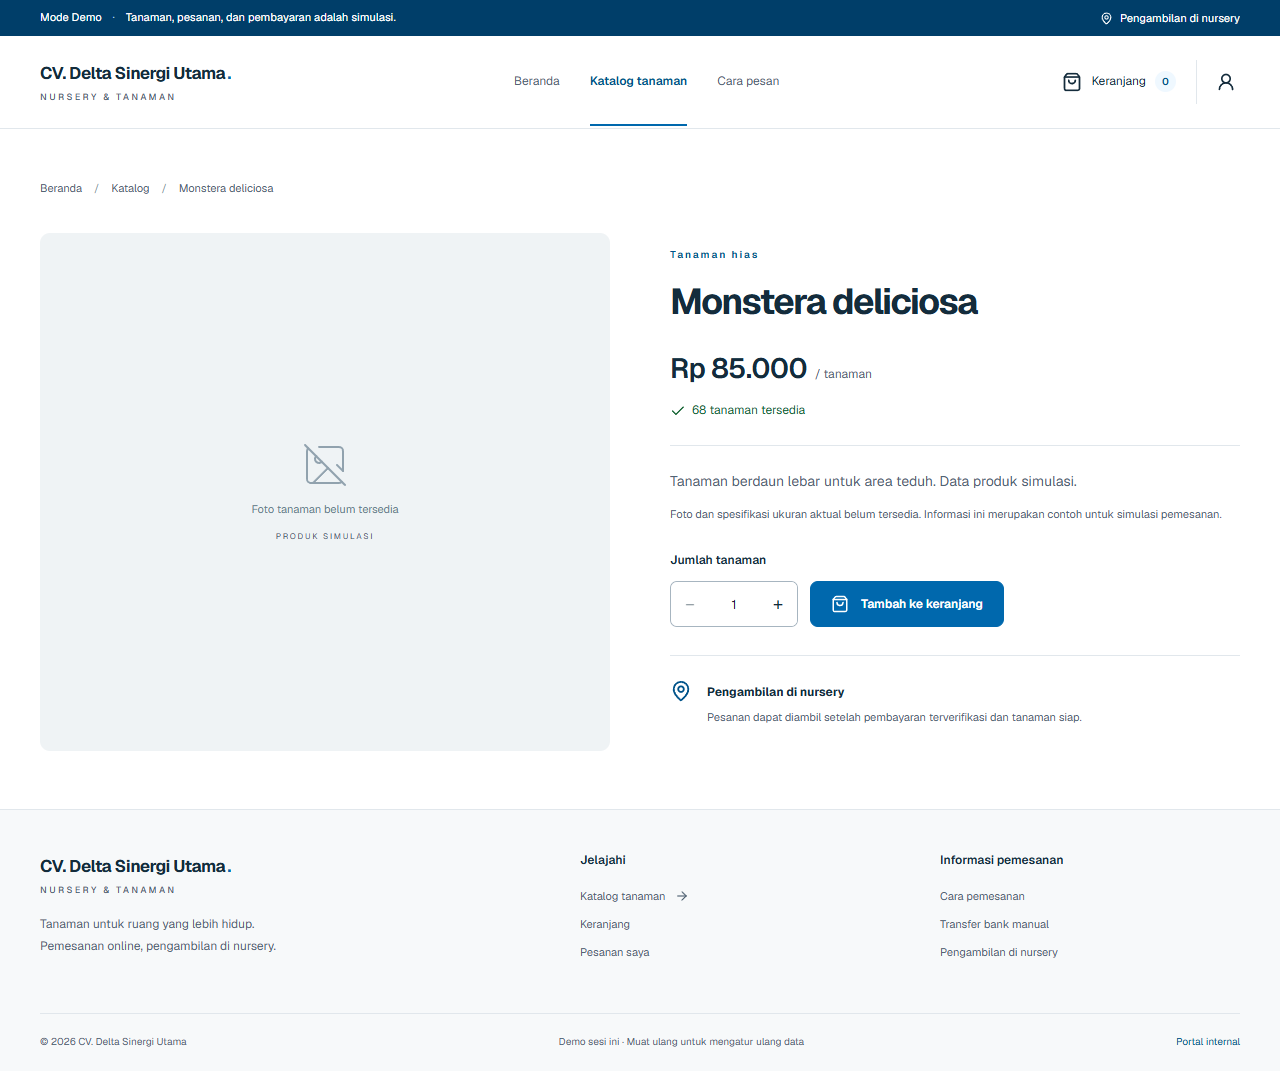
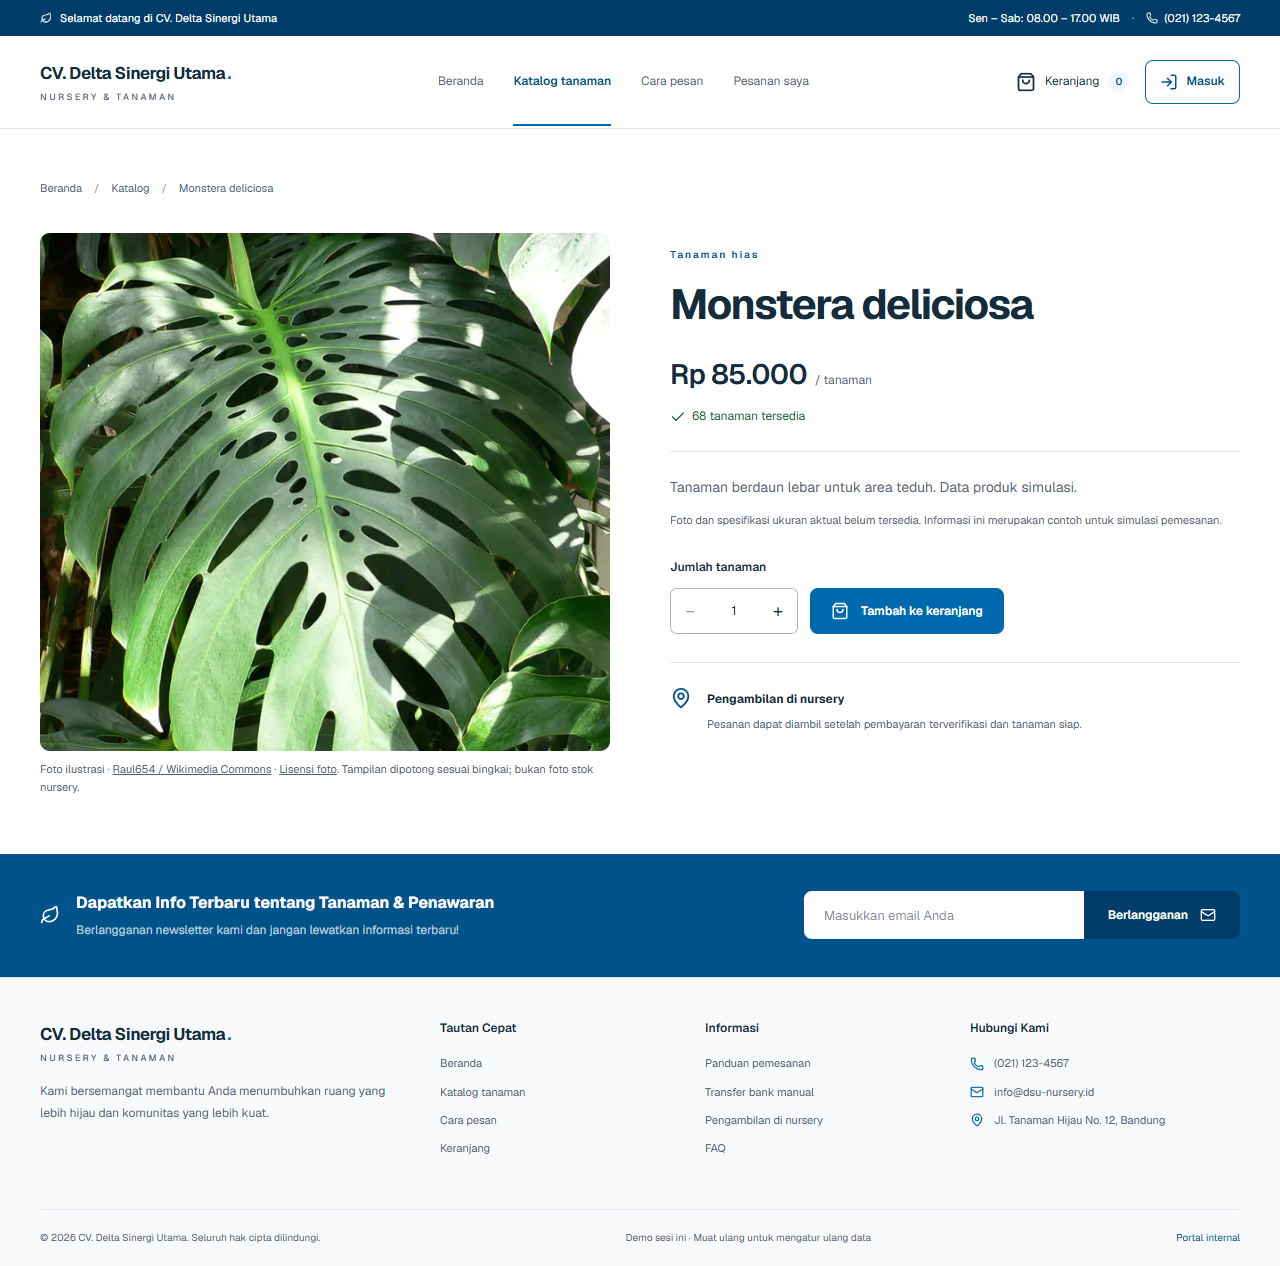
Fix storefront audit findings and add login logout regression coverage

diff --git a/apps/web/features/storefront/catalog.tsx b/apps/web/features/storefront/catalog.tsx
@@ -11,12 +11,10 @@ import {
   MapPin,
   Search,
   ShoppingBag,
-  ShieldCheck,
   SlidersHorizontal,
   Sprout,
   TreePine,
   Users,
-  WalletCards,
   Headphones,
   CalendarCheck,
   CreditCard,
@@ -43,7 +41,11 @@ export function ProductPhoto({
           src={photo.src}
           alt={`Foto ilustrasi ${name}`}
           fill
-          sizes={large ? "(max-width: 700px) 100vw, 50vw" : "(max-width: 700px) 50vw, 33vw"}
+          sizes={
+            large
+              ? "(max-width: 700px) 100vw, 50vw"
+              : "(max-width: 700px) 50vw, 33vw"
+          }
           className="shop-plant-image"
           onError={() => setFailed(true)}
         />
@@ -137,8 +139,7 @@ export function HomeContent() {
           <h1>
             Semua yang Anda Butuhkan
             <br />
-            untuk{" "}
-            <em className="shop-hero-script">Ruang Hijau</em>
+            untuk <em className="shop-hero-script">Ruang Hijau</em>
           </h1>
           <span className="shop-hero-divider" />
           <p>
@@ -215,14 +216,19 @@ export function HomeContent() {
                 <Users size={22} />
                 <div>
                   <strong>Lebih Kuat Bersama</strong>
-                  <p>Bergabung dengan komunitas yang peduli alam dan kelestarian.</p>
+                  <p>
+                    Bergabung dengan komunitas yang peduli alam dan kelestarian.
+                  </p>
                 </div>
               </div>
               <div className="shop-grow-feature">
                 <Sprout size={22} />
                 <div>
                   <strong>Berbagi & Belajar</strong>
-                  <p>Tukar tips, bibit, dan pengalaman dengan sesama pencinta tanaman.</p>
+                  <p>
+                    Tukar tips, bibit, dan pengalaman dengan sesama pencinta
+                    tanaman.
+                  </p>
                 </div>
               </div>
             </div>
@@ -244,8 +250,8 @@ export function HomeContent() {
               <div>
                 <strong>Ciptakan Hari Esok yang Lebih Hijau</strong>
                 <p>
-                  Setiap tanaman yang kita tanam hari ini menjadi langkah
-                  menuju masa depan yang lebih bersih dan hijau.
+                  Setiap tanaman yang kita tanam hari ini menjadi langkah menuju
+                  masa depan yang lebih bersih dan hijau.
                 </p>
               </div>
             </div>
@@ -466,11 +472,22 @@ export function DetailContent({ id }: { id: string }) {
           <ProductPhoto name={product.name} large />
           {productPhotos[product.name] && (
             <p className="shop-photo-credit">
-              Foto ilustrasi · {" "}
-              <a href={productPhotos[product.name].source} target="_blank" rel="noreferrer">
+              Foto ilustrasi ·{" "}
+              <a
+                href={productPhotos[product.name].source}
+                target="_blank"
+                rel="noreferrer"
+              >
                 {productPhotos[product.name].author} / Wikimedia Commons
               </a>{" "}
-              · <a href={productPhotos[product.name].license} target="_blank" rel="noreferrer">Lisensi foto</a>
+              ·{" "}
+              <a
+                href={productPhotos[product.name].license}
+                target="_blank"
+                rel="noreferrer"
+              >
+                Lisensi foto
+              </a>
               . Tampilan dipotong sesuai bingkai; bukan foto stok nursery.
             </p>
           )}

diff --git a/tests/customer.spec.ts b/tests/customer.spec.ts
@@ -6,9 +6,7 @@ test("customer journey: detail, cart, checkout validation and payment review", a
   const errors: string[] = [];
   page.on("pageerror", (error) => errors.push(error.message));
   await page.goto("/");
-  await page
-    .getByRole("link", { name: "Jelajahi tanaman", exact: true })
-    .click();
+  await page.getByRole("link", { name: /^Jelajahi tanaman$/i }).click();
   await page
     .getByRole("link", { name: "Lihat detail Monstera deliciosa" })
     .click();
@@ -45,31 +43,58 @@ test("customer journey: detail, cart, checkout validation and payment review", a
     page.getByText("Menunggu pembayaran", { exact: true }),
   ).toBeVisible();
   await page.getByRole("button", { name: "Detail pembayaran" }).click();
-  await page
-    .getByLabel("Bukti pembayaran SIM-0001")
-    .setInputFiles({
-      name: "contoh.txt",
-      mimeType: "text/plain",
-      buffer: Buffer.from("simulation"),
-    });
+  await page.getByLabel("Bukti pembayaran SIM-0001").setInputFiles({
+    name: "contoh.txt",
+    mimeType: "text/plain",
+    buffer: Buffer.from("simulation"),
+  });
   await page.getByRole("button", { name: "Kirim bukti simulasi" }).click();
   await expect(page.getByRole("main").getByRole("alert")).toContainText(
     "maksimal 5 MB",
   );
-  await page
-    .getByLabel("Bukti pembayaran SIM-0001")
-    .setInputFiles({
-      name: "contoh.pdf",
-      mimeType: "application/pdf",
-      buffer: Buffer.from("%PDF-1.4 demo"),
-    });
+  await page.getByLabel("Bukti pembayaran SIM-0001").setInputFiles({
+    name: "contoh.pdf",
+    mimeType: "application/pdf",
+    buffer: Buffer.from("%PDF-1.4 demo"),
+  });
   await page.getByRole("button", { name: "Kirim bukti simulasi" }).click();
   await expect(
     page.getByText("Menunggu verifikasi", { exact: true }),
   ).toBeVisible();
   await page.getByRole("link", { name: "Kembali ke katalog" }).click();
   await expect(page.getByText("66 tanaman tersedia")).toBeVisible();
+  await page.getByRole("link", { name: "Masuk", exact: true }).click();
+  await page.getByRole("button", { name: /budi@email.com/ }).click();
+  await page.getByRole("button", { name: "Masuk", exact: true }).click();
+  await expect(
+    page.getByRole("button", { name: "Keluar", exact: true }),
+  ).toBeVisible();
+  await page
+    .getByRole("link", { name: "Katalog tanaman", exact: true })
+    .first()
+    .click();
+  await page
+    .getByRole("button", { name: "Tambah Monstera deliciosa ke keranjang" })
+    .click();
+  await page.getByRole("button", { name: "Keluar", exact: true }).click();
+  await expect(
+    page.getByRole("link", { name: "Keranjang, 0 tanaman" }),
+  ).toBeVisible();
+  await expect(page.getByText("68 tanaman tersedia")).toBeVisible();
+  await page.getByRole("link", { name: "Pesanan saya", exact: true }).click();
+  await expect(
+    page.getByRole("heading", { name: "Belum ada pesanan" }),
+  ).toBeVisible();
   expect(errors).toEqual([]);
+});
+
+test("login focuses the first currently invalid field", async ({ page }) => {
+  await page.goto("/login");
+  await page.getByRole("button", { name: "Masuk", exact: true }).click();
+  await expect(page.locator("#login-email")).toBeFocused();
+  await page.locator("#login-email").fill("budi@email.com");
+  await page.getByRole("button", { name: "Masuk", exact: true }).click();
+  await expect(page.locator("#login-password")).toBeFocused();
 });
 test("category filtering, sorting and empty cart recovery", async ({
   page,

diff --git a/apps/web/features/storefront/storefront.tsx b/apps/web/features/storefront/storefront.tsx
@@ -1,5 +1,5 @@
 "use client";
-import { useEffect, useState } from "react";
+import { useSyncExternalStore } from "react";
 import Link from "next/link";
 import { usePathname } from "next/navigation";
 import {
@@ -10,11 +10,15 @@ import {
   Phone,
   Mail,
   ShoppingBag,
-  UserRound,
   Leaf,
 } from "lucide-react";
 import { ErrorState, LoadingState } from "@/components/ui/feedback";
-import { getSession, clearSession, type DemoSession } from "@/lib/session";
+import {
+  clearSession,
+  subscribeSession,
+  hasSession,
+  hasServerSession,
+} from "@/lib/session";
 import { useShop } from "./provider";
 import { CatalogContent, DetailContent, HomeContent } from "./catalog";
 import { CartContent, CheckoutContent, OrdersContent } from "./purchase";
@@ -25,14 +29,14 @@ export type CustomerView =
 
 /** Customer storefront layout; all displayed data and actions belong to the demo service. */
 export function Storefront({ view, id }: { view: CustomerView; id?: string }) {
-  const { state, loading, error, refresh } = useShop();
+  const { state, loading, error, refresh, reset } = useShop();
   const pathname = usePathname();
   const count = state.cart.reduce((sum, line) => sum + line.quantity, 0);
-  const [session, setSession] = useState<DemoSession | null>(null);
-
-  useEffect(() => {
-    setSession(getSession());
-  }, [pathname]);
+  const session = useSyncExternalStore(
+    subscribeSession,
+    hasSession,
+    hasServerSession,
+  );
   return (
     <div className="shop">
       <div className="shop-announcement">
@@ -97,7 +101,7 @@ export function Storefront({ view, id }: { view: CustomerView; id?: string }) {
                 className="shop-login-link"
                 onClick={() => {
                   clearSession();
-                  setSession(null);
+                  reset();
                 }}
               >
                 <LogOut size={18} />
@@ -210,7 +214,9 @@ export function Storefront({ view, id }: { view: CustomerView; id?: string }) {
           </div>
         </div>
         <div className="shop-footer-bottom">
-          <span>© 2026 CV. Delta Sinergi Utama. Seluruh hak cipta dilindungi.</span>
+          <span>
+            © 2026 CV. Delta Sinergi Utama. Seluruh hak cipta dilindungi.
+          </span>
           <span>Demo sesi ini · Muat ulang untuk mengatur ulang data</span>
           <Link href="/admin">Portal internal</Link>
         </div>

diff --git a/apps/web/features/storefront/login.tsx b/apps/web/features/storefront/login.tsx
@@ -20,7 +20,7 @@ export function LoginContent() {
 
   const demoUsers = getDemoUsers();
 
-  function validate(): boolean {
+  function validate() {
     const next: { email?: string; password?: string } = {};
     if (!email.trim()) {
       next.email = "Email wajib diisi.";
@@ -33,7 +33,7 @@ export function LoginContent() {
       next.password = "Password minimal 6 karakter.";
     }
     setErrors(next);
-    return Object.keys(next).length === 0;
+    return next;
   }
 
   function fillCredentials(userEmail: string, userPassword: string) {
@@ -45,9 +45,9 @@ export function LoginContent() {
 
   async function handleSubmit(event: FormEvent) {
     event.preventDefault();
-    if (!validate()) {
-      const firstKey = Object.keys(errors)[0];
-      if (firstKey) document.getElementById(`login-${firstKey}`)?.focus();
+    const firstKey = Object.keys(validate())[0];
+    if (firstKey) {
+      document.getElementById(`login-${firstKey}`)?.focus();
       return;
     }
     if (pending) return;
@@ -101,11 +101,7 @@ export function LoginContent() {
             untuk melanjutkan.
           </p>
         </div>
-        <form
-          className="shop-login-form"
-          onSubmit={handleSubmit}
-          noValidate
-        >
+        <form className="shop-login-form" onSubmit={handleSubmit} noValidate>
           <label className="shop-field" htmlFor="login-email">
             Email <span aria-hidden="true">*</span>
             <div className="shop-login-input-wrapper">

diff --git a/apps/web/lib/session.ts b/apps/web/lib/session.ts
@@ -9,11 +9,25 @@ export interface DemoSession {
 }
 
 const COOKIE_NAME = "dsu_session";
+const SESSION_EVENT = "dsu-session-change";
+
+export function subscribeSession(onChange: () => void): () => void {
+  window.addEventListener(SESSION_EVENT, onChange);
+  window.addEventListener("focus", onChange);
+  return () => {
+    window.removeEventListener(SESSION_EVENT, onChange);
+    window.removeEventListener("focus", onChange);
+  };
+}
+
+export const hasSession = () => getSession() !== null;
+export const hasServerSession = () => false;
 
 /** Persist a demo session to a cookie (client-side only). */
 export function setSession(session: DemoSession): void {
   const value = btoa(JSON.stringify(session));
   document.cookie = `${COOKIE_NAME}=${value}; path=/; max-age=86400; SameSite=Lax`;
+  window.dispatchEvent(new Event(SESSION_EVENT));
 }
 
 /** Read the demo session from cookies (client-side only). Returns null if absent or invalid. */
@@ -33,6 +47,7 @@ export function getSession(): DemoSession | null {
 /** Remove the demo session cookie (client-side only). */
 export function clearSession(): void {
   document.cookie = `${COOKIE_NAME}=; path=/; max-age=0`;
+  window.dispatchEvent(new Event(SESSION_EVENT));
 }
 
 /** Returns the redirect path for a given role after login. */

diff --git a/apps/web/features/storefront/provider.tsx b/apps/web/features/storefront/provider.tsx
@@ -19,11 +19,14 @@ interface ShopContext {
   refresh: () => void;
   service: CustomerService;
   sync: () => void;
+  reset: () => void;
 }
 const Context = createContext<ShopContext | null>(null);
 /** Keeps demo cart/order state across client navigation. Reload intentionally resets the simulation. */
 export function CustomerProvider({ children }: { children: ReactNode }) {
-  const [service] = useState(() => createCustomerService(createDemoService()));
+  const [service, setService] = useState(() =>
+    createCustomerService(createDemoService()),
+  );
   const [state, setState] = useState<ShopState>({
     products: [],
     cart: [],
@@ -64,6 +67,13 @@ export function CustomerProvider({ children }: { children: ReactNode }) {
         error,
         service,
         sync: () => setState(service.snapshot()),
+        reset: () => {
+          const next = createCustomerService(createDemoService());
+          setState(next.snapshot());
+          setLoading(true);
+          setError("");
+          setService(next);
+        },
         refresh: () => {
           setLoading(true);
           setError("");

diff --git a/apps/web/features/storefront/storefront.css b/apps/web/features/storefront/storefront.css
@@ -981,11 +981,13 @@
 /* ── Detail ── */
 .shop-detail {
   display: grid;
-  grid-template-columns: 1fr 1fr;
+  grid-template-columns: repeat(2, minmax(0, 1fr));
   gap: 60px;
   align-items: start;
 }
 .shop-detail-info {
+  min-width: 0;
+  overflow-wrap: anywhere;
   padding: 14px 0;
 }
 .shop-detail h1 {
